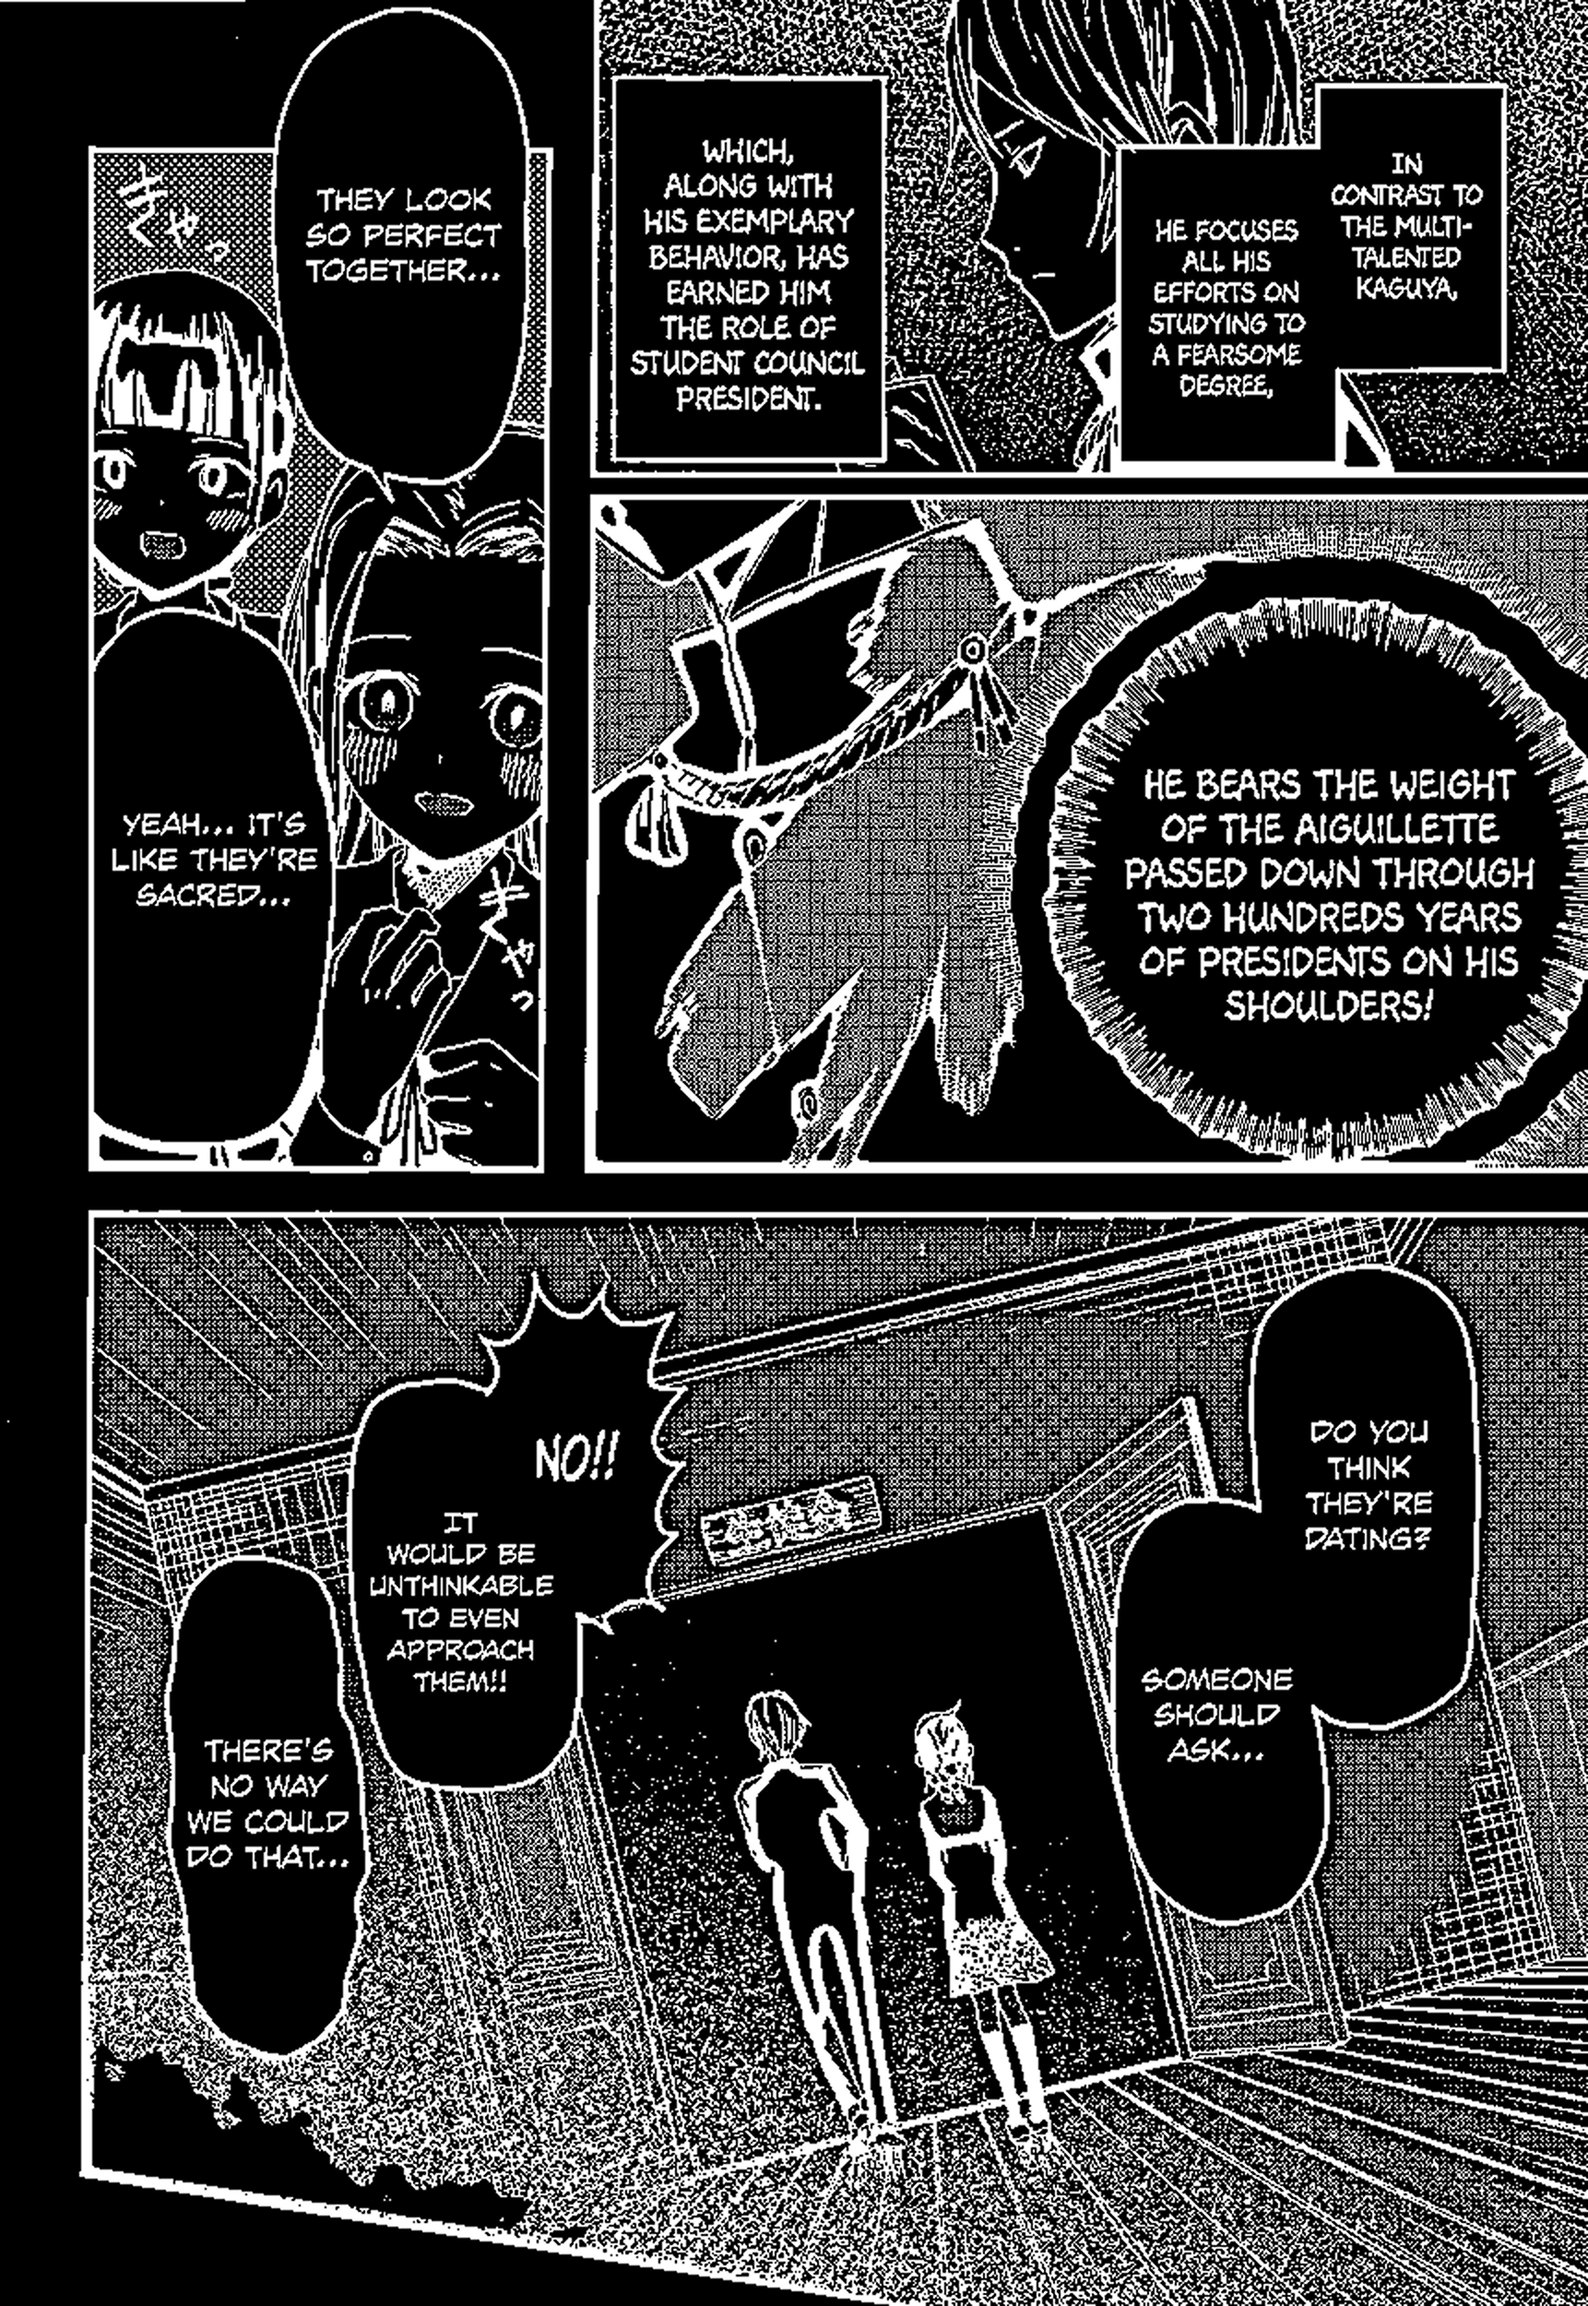
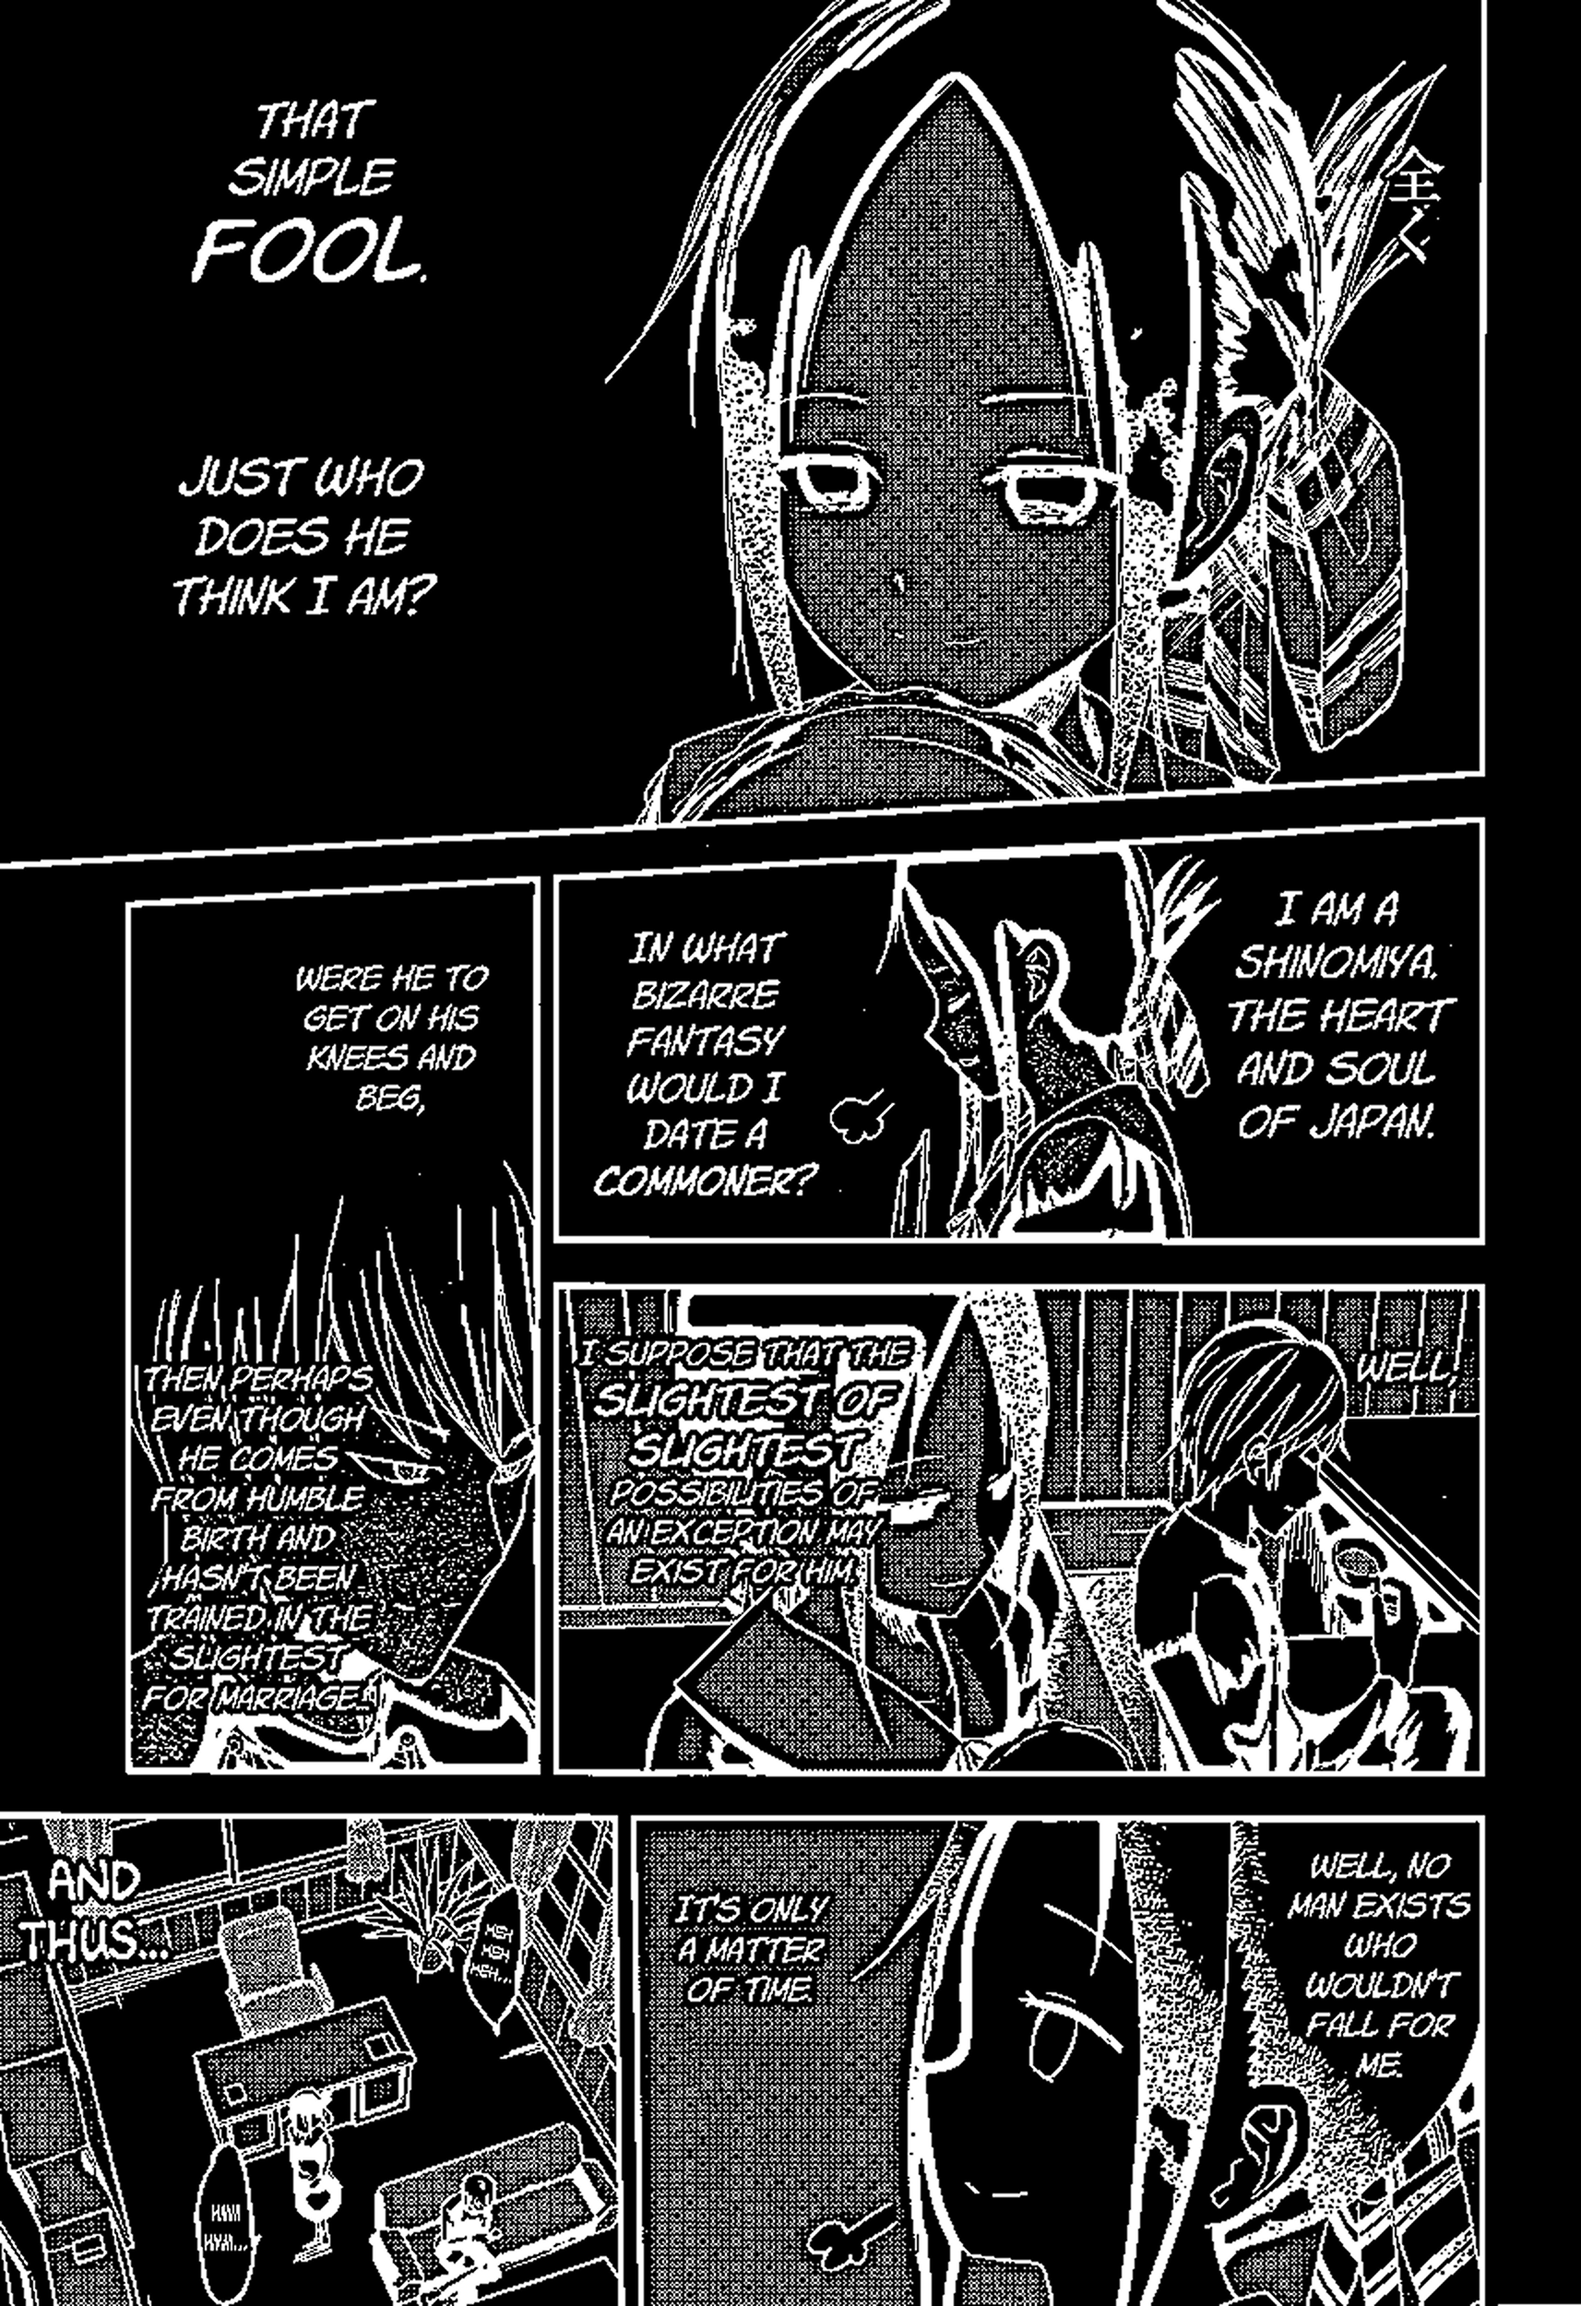
used gemini AI to get text from manga panels

diff --git a/index.html b/index.html
@@ -1,0 +1,28 @@
+<!DOCTYPE html>
+<html lang="en">
+<head>
+  <meta charset="UTF-8" />
+  <meta name="viewport" content="width=device-width, initial-scale=1.0" />
+  <title>My First Webpage</title>
+</head>
+
+<body>
+  <header>
+  </header>
+  <main>
+    <label id="page_num">1</label>
+    <img src="manga_panel\love_is_war1.png" alt="page 1">
+    <form action="/deez" method = "post">
+        <button type = "submit" name = "action" value = "submit">Click Me</button>
+    </form>
+
+    <script>
+        let page_num = document.getElementById("page_num").textContent
+        datajson = {'page_num':page_num}
+        datajson.json()
+        console.log(page_num);
+    </script>
+  </main>
+</body>
+
+</html>

diff --git a/text_to_speech.py b/text_to_speech.py
@@ -1,14 +1,34 @@
 import os
-#import clone_voice.py
+import json
+#import read_manga_panel
 from pyneuphonic import Neuphonic, TTSConfig
 from pyneuphonic.player import AudioPlayer
 from dotenv import load_dotenv
+
+
 
 # Load the API key from the environment
 load_dotenv()  # Load variables from .env
 client = Neuphonic(api_key=os.getenv('NEUPHONIC_API_KEY'))
 
 sse = client.tts.SSEClient()
+
+
+#with open("my_data.json", "r") as file:
+#    data = json.load(file) # data is a dictionary
+
+
+kaguya_dict = {
+    'that simple fool': 1,
+    'just who does he think I am': 2,
+    'I am a shinomiya the heart and soul of japan': 3,
+    'in what bizarre fantasy would i date a commoner': 4,
+    'I suppose that the slightest of slightest possibilities of an exception may exist for him': 5,
+    'were he to get on his knees and beg': 6,
+    'then perhaps even though he comes from humble birth and hasnt been ':7
+}
+
+# put this in a for loop
 
 # TTSConfig is a pydantic model so check out the source code for all valid options
 x = 1
@@ -40,9 +60,12 @@ elif x == 2:
 #b19687fd-c5c9-4bda-9d52-756c3b10c88e
 #print(client.voices.list())
 
+
+#print(data)
+
 # Create an audio player with `pyaudio`
 with AudioPlayer() as player:
-    response = sse.send('cat cat cat cat', tts_config=tts_config)
+    response = sse.send('thiery is a shy-tuh', tts_config=tts_config)
     player.play(response)
 
-    player.save_audio('output.wav')  # save the audio to a .wav file
+    #player.save_audio('output.wav')  # save the audio to a .wav file

diff --git a/manga_panel/test.py b/manga_panel/test.py
@@ -1,0 +1,33 @@
+import PIL.Image
+
+from google import genai
+from google.genai import types
+from os import listdir
+
+client = genai.Client(api_key="AIzaSyAXhTlzcjOer55cngHl2awrRxwVxLRoJ3c")
+FACES_PATH = "../faces/"
+
+# client.models.generate_content(
+#         model="gemini-2.0-flash",
+#         contents=[""])
+
+for imageName in listdir(FACES_PATH):
+    name = imageName.split(".")[0]
+    image = PIL.Image.open(FACES_PATH + imageName)
+
+    client.models.generate_content(
+        model="gemini-2.0-flash",
+        contents=[f"This is {name}", image])
+    
+
+image = PIL.Image.open("../lesson.webp")
+response = client.models.generate_content(
+        model="gemini-2.0-flash",
+        contents=[f"This is how you read a manga pane;", image])
+
+image = PIL.Image.open("love_is_war8.png")
+response = client.models.generate_content(
+        model="gemini-2.0-flash",
+        contents=[f"Give me the dialogue in the manga panel in the format: <NAME>: <SPEECH>", image])
+
+print(response.text)

diff --git a/read_manga_panel.py b/read_manga_panel.py
@@ -1,12 +1,16 @@
 import cv2
 import numpy as np
 import easyocr  # Replaced pytesseract with easyocr
+import json
 
 # Initialize EasyOCR reader (English only, CPU mode)
 reader = easyocr.Reader(['en'], gpu=False)  # Add more languages like ['en','ja'] if needed
 
 # Load and preprocess the image (your existing steps)
-image = cv2.imread("manga_panel\love_is_war4.png")
+file_path = "manga_panel\love_is_war7.png"
+
+    
+image = cv2.imread(file_path)
 gray = cv2.cvtColor(image, cv2.COLOR_BGR2GRAY)
 thresh = cv2.adaptiveThreshold(
     gray, 255, 
@@ -29,4 +33,16 @@ result = reader.readtext(
 
 # Print cleaned output
 print("Extracted Text:")
-print("\n".join(result))  # Preserves original line breaks
+#print("\n".join(result))  # Preserves original line breaks
+
+#print("testing")
+#print(result.lower())
+
+x = []
+for i in range(0, len(result)):
+    x.append(result[i].lower())
+print(x)
+
+# Save to file
+with open("my_data.json", "w") as file:
+    json.dump(x, file)
